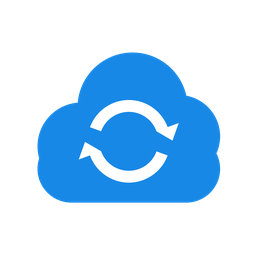
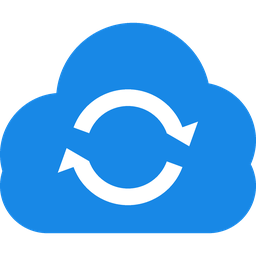
Prepare v0.1.1 for the Home Assistant Marketplace
- Add integration categories to manifest.json
- Trim brand icon per brand guidelines
- Document installation via the Marketplace (HA 2026.11+) with My link
- Bump version to 0.1.1

diff --git a/README.md b/README.md
@@ -4,7 +4,7 @@
 
 **Upload Home Assistant data – Frigate clips, camera snapshots, exports, any file – straight into your pCloud drive.**
 
-[![HACS Custom](https://img.shields.io/badge/HACS-Custom-41BDF5.svg)](https://hacs.xyz/docs/faq/custom_repositories)
+[![Marketplace](https://img.shields.io/badge/HA%20Marketplace-Custom-41BDF5.svg)](https://my.home-assistant.io/redirect/marketplace_repository/?owner=DASO203&repository=pcloud-sync-unofficial&category=integration)
 [![GitHub release](https://img.shields.io/github/v/release/DASO203/pcloud-sync-unofficial)](https://github.com/DASO203/pcloud-sync-unofficial/releases)
 [![Validate](https://github.com/DASO203/pcloud-sync-unofficial/actions/workflows/validate.yml/badge.svg)](https://github.com/DASO203/pcloud-sync-unofficial/actions/workflows/validate.yml)
 [![License: MIT](https://img.shields.io/badge/License-MIT-yellow.svg)](LICENSE)
@@ -87,7 +87,21 @@ Uploaded files are remembered (path, size, modification time) in `.storage/pclou
 
 ## Installation
 
-### HACS (recommended)
+### Home Assistant Marketplace (2026.11 and newer – recommended)
+
+[![Open your Home Assistant instance and add this repository to the Marketplace.](https://my.home-assistant.io/badges/marketplace_repository.svg)](https://my.home-assistant.io/redirect/marketplace_repository/?owner=DASO203&repository=pcloud-sync-unofficial&category=integration)
+
+Click the button above, or manually:
+
+1. **Settings → Marketplace** → upper right **Add from link**
+2. Enter `DASO203/pcloud-sync-unofficial` (type **Integration**)
+   – the Marketplace asks once to connect to GitHub for repositories added by link
+3. Open **pCloud Sync (Unofficial)** → **Download**
+4. Continue with [Setup](#setup). A restart is only needed after updates.
+
+> Once the integration is listed in the default catalog, you can simply search for **pCloud Sync** in the Marketplace.
+
+### HACS (Home Assistant 2026.10 and older)
 
 1. HACS → ⋮ → **Custom repositories**
 2. Repository: `https://github.com/DASO203/pcloud-sync-unofficial`, type **Integration**
@@ -355,7 +369,7 @@ Found a security problem? See [SECURITY.md](SECURITY.md).
 
 1. **Settings → Devices & services → pCloud Sync → ⋮ → Delete**
 2. Optional: remove the application credentials and revoke the app in pCloud
-3. Remove via HACS (or delete `custom_components/pcloud_sync`) and restart
+3. Remove it in the Marketplace (or HACS / delete `custom_components/pcloud_sync`) and restart
 4. Optional: delete the cache folder
 
 Files already uploaded to pCloud are not touched.

diff --git a/README.de.md b/README.de.md
@@ -4,7 +4,7 @@
 
 **Daten aus Home Assistant – Frigate-Clips, Kamera-Snapshots, Exporte, beliebige Dateien – direkt in dein pCloud-Laufwerk hochladen.**
 
-[![HACS Custom](https://img.shields.io/badge/HACS-Custom-41BDF5.svg)](https://hacs.xyz/docs/faq/custom_repositories)
+[![Marketplace](https://img.shields.io/badge/HA%20Marketplace-Custom-41BDF5.svg)](https://my.home-assistant.io/redirect/marketplace_repository/?owner=DASO203&repository=pcloud-sync-unofficial&category=integration)
 [![GitHub release](https://img.shields.io/github/v/release/DASO203/pcloud-sync-unofficial)](https://github.com/DASO203/pcloud-sync-unofficial/releases)
 [![License: MIT](https://img.shields.io/badge/License-MIT-yellow.svg)](LICENSE)
 
@@ -83,7 +83,21 @@ Hochgeladene Dateien werden (Pfad, Größe, Änderungszeit) in `.storage/pcloud_
 
 ## Installation
 
-### HACS (empfohlen)
+### Home Assistant Marketplace (ab 2026.11 – empfohlen)
+
+[![Home Assistant öffnen und dieses Repository im Marketplace hinzufügen.](https://my.home-assistant.io/badges/marketplace_repository.svg)](https://my.home-assistant.io/redirect/marketplace_repository/?owner=DASO203&repository=pcloud-sync-unofficial&category=integration)
+
+Auf den Button klicken oder manuell:
+
+1. **Einstellungen → Marketplace** → oben rechts **Aus Link hinzufügen** (*Add from link*)
+2. `DASO203/pcloud-sync-unofficial` eingeben (Typ **Integration**)
+   – für per Link hinzugefügte Repositories fragt der Marketplace einmalig nach einer GitHub-Verbindung
+3. **pCloud Sync (Unofficial)** öffnen → **Herunterladen**
+4. Weiter mit der [Einrichtung](#einrichtung). Ein Neustart ist nur nach Updates nötig.
+
+> Sobald die Integration im Standard-Katalog gelistet ist, findest du sie einfach über die Suche nach **pCloud Sync** im Marketplace.
+
+### HACS (Home Assistant 2026.10 und älter)
 
 1. HACS → ⋮ → **Benutzerdefinierte Repositories**
 2. Repository: `https://github.com/DASO203/pcloud-sync-unofficial`, Typ **Integration**
@@ -322,7 +336,7 @@ Andernfalls bleibt die Datei erhalten und im Aktivitätsprotokoll steht ein Eint
 
 1. **Einstellungen → Geräte & Dienste → pCloud Sync → ⋮ → Löschen**
 2. Optional: Anwendungs-Anmeldedaten entfernen und die App in pCloud widerrufen
-3. Über HACS entfernen (oder `custom_components/pcloud_sync` löschen) und neu starten
+3. Im Marketplace entfernen (oder über HACS / `custom_components/pcloud_sync` löschen) und neu starten
 4. Optional: Zwischenspeicher-Ordner löschen
 
 Bereits zu pCloud hochgeladene Dateien bleiben unberührt.

diff --git a/CHANGELOG.md b/CHANGELOG.md
@@ -3,6 +3,16 @@
 All notable changes to this project are documented here.
 The format follows [Keep a Changelog](https://keepachangelog.com/en/1.1.0/) and the project uses [Semantic Versioning](https://semver.org/).
 
+## [0.1.1] - 2026-11-25
+
+### Added
+- Integration categories in `manifest.json` for the Home Assistant Marketplace.
+- Installation instructions and My Home Assistant button for the Marketplace (HA 2026.11+).
+
+### Fixed
+- Brand icon (trimmed, in `custom_components/pcloud_sync/brand/`) so it is shown in the Marketplace.
+- Translation texts rejected by hassfest.
+
 ## [0.1.0] - 2026-11-25
 
 ### Added
